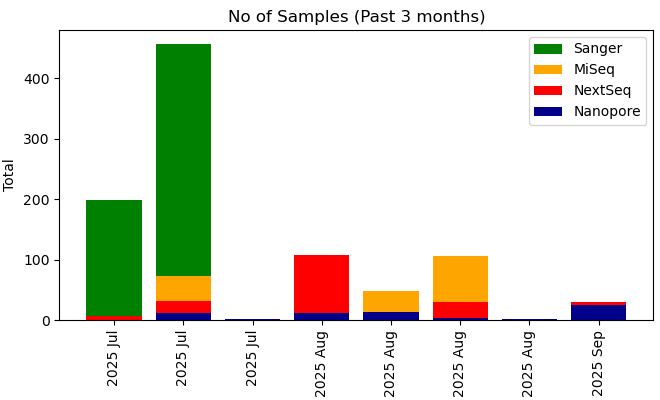
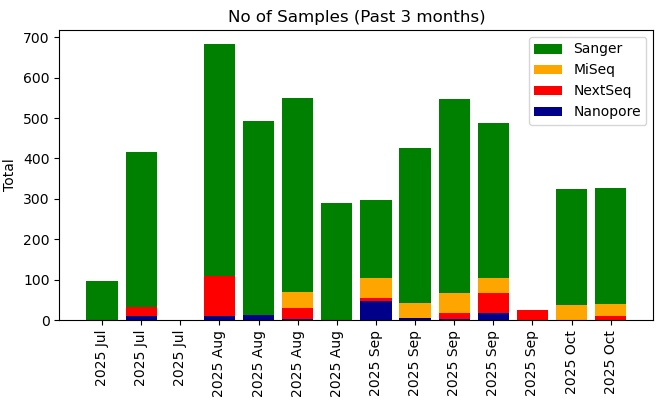
Your commit message here

diff --git a/krona/cgs.html b/krona/cgs.html
@@ -52,8 +52,8 @@ body {
   flex-direction: column;
 }
 </style>
-<H1>Genomics Facility Status: 09:48:13, 10/10/2025</H1>
-<marquee behavior="scroll" scrollamount="20" direction="left" bgcolor="lightgrey">TTGACTTATACCGATATTGCTGGCGACCCTGTTTTGTATGGCAACTTGCCGCAGCGTGAAATTTCTATGAAGGATGTTTTCCGTTCTGGTGATTCGTCTAAGAAGTTTAAGATTGCTGAGGGTCAGTGGTATCGTTATGCGCCTTCGTATGTTTCTCCTGCTTATCACCTTCTTGAAGGCTTCCCATTCATTCAGGAACCGCCTTCTGGTGATTTGCACGAACGCGTACTTATTCGCCACCATGATTATG</marquee>
+<H1>Genomics Facility Status: 07:00:09, 11/10/2025</H1>
+<marquee behavior="scroll" scrollamount="20" direction="left" bgcolor="lightgrey">ATAACTGGTAGCTTTAAGCGGCTCACCTTTAGCATCAACAGGCCACAACCAACCAGAACGTGAAAAAGCGTCCTGCGTGTAGCGAACTGCGATGGGCATACTGTAACCATAAGGCCACGTATTTTGCAAGCTATTTAACTGGCGGCGATTGCGTACCCGACGACCAAAATTAGGGTCAACGCTACCTGTAGGAAGTGTCCGCATAAAGTGCACCGCATGGAAATGAAGACGGCCATTAGCTGTACCATACT</marquee>
 <TABLE BORDER=0><TR><TD><TABLE class="styled-table"><H3>GigaBases Sequenced</H3>
-<TR><TD><b>Platform</b></TD><TD><b>Week</b></TD><TD><b>Month</b></TD><TD><b>Year</b></TD><TD><b>Total</b></TD></TR><TR><TD>Illumina MiSeq</TD><TD>0.0</TD><TD>0.0</TD><TD>287.91</TD><TD>287.91</TD></TR><TR><TD>Illumina NextSeq</TD><TD>0.0</TD><TD>0.0</TD><TD>4435.7</TD><TD>4435.7</TD></TR><TR><TD>Nanopore PromethION</TD><TD>0.0</TD><TD>0.0</TD><TD>4926.32</TD><TD>6986.56</TD></TR><TR><TD>Sanger</TD><TD>0.0</TD><TD>0.0</TD><TD>0.02</TD><TD>0.03</TD></TR></TABLE></TD><TD><IMG SRC="fig1.png"><IMG SRC="fig2.png"></TD></TR><TR><TD><H3>No. Samples (No. Experiments)</H3>
-<TABLE class="styled-table"><TR><TD><b>Platform</b></TD><TD><b>Week</b></TD><TD><b>Month</b></TD><TD><b>Year</b></TD><TD><b>Total</b></TD></TR><TR><TD>Illumina MiSeq</TD><TD>0 (0)</TD><TD>0 (0)</TD><TD>1397 (43)</TD><TD>1397 (43)</TD></TR><TR><TD>Illumina NextSeq</TD><TD>0 (0)</TD><TD>0 (0)</TD><TD>1359 (48)</TD><TD>1359 (48)</TD></TR><TR><TD>Nanopore PromethION</TD><TD>0 (0)</TD><TD>0 (0)</TD><TD>300 (123)</TD><TD>589 (194)</TD></TR><TR><TD>Sanger</TD><TD>0 (0)</TD><TD>0 (0)</TD><TD>18311 (18311)</TD><TD>28103 (28103)</TD></TR></TABLE></TD><TD><IMG SRC="fig4.png"></TD></TR></TABLE></HTML>
+<TR><TD><b>Platform</b></TD><TD><b>Week</b></TD><TD><b>Month</b></TD><TD><b>Year</b></TD><TD><b>Total</b></TD></TR><TR><TD>Illumina MiSeq</TD><TD>17.77</TD><TD>52.18</TD><TD>315.06</TD><TD>315.06</TD></TR><TR><TD>Illumina NextSeq</TD><TD>0.88</TD><TD>359.1</TD><TD>4794.79</TD><TD>4794.79</TD></TR><TR><TD>Nanopore PromethION</TD><TD>0.0</TD><TD>699.44</TD><TD>5830.33</TD><TD>7890.57</TD></TR><TR><TD>Sanger</TD><TD>0.0</TD><TD>0.0</TD><TD>0.02</TD><TD>0.03</TD></TR></TABLE></TD><TD><IMG SRC="fig1.png"><IMG SRC="fig2.png"></TD></TR><TR><TD><H3>No. Samples (No. Experiments)</H3>
+<TABLE class="styled-table"><TR><TD><b>Platform</b></TD><TD><b>Week</b></TD><TD><b>Month</b></TD><TD><b>Year</b></TD><TD><b>Total</b></TD></TR><TR><TD>Illumina MiSeq</TD><TD>65 (4)</TD><TD>185 (8)</TD><TD>1464 (52)</TD><TD>1464 (52)</TD></TR><TR><TD>Illumina NextSeq</TD><TD>11 (1)</TD><TD>102 (6)</TD><TD>1461 (54)</TD><TD>1461 (54)</TD></TR><TR><TD>Nanopore PromethION</TD><TD>0 (0)</TD><TD>24 (19)</TD><TD>348 (144)</TD><TD>637 (215)</TD></TR><TR><TD>Sanger</TD><TD>384 (384)</TD><TD>1824 (1824)</TD><TD>22151 (22151)</TD><TD>31943 (31943)</TD></TR></TABLE></TD><TD><IMG SRC="fig4.png"></TD></TR></TABLE></HTML>
